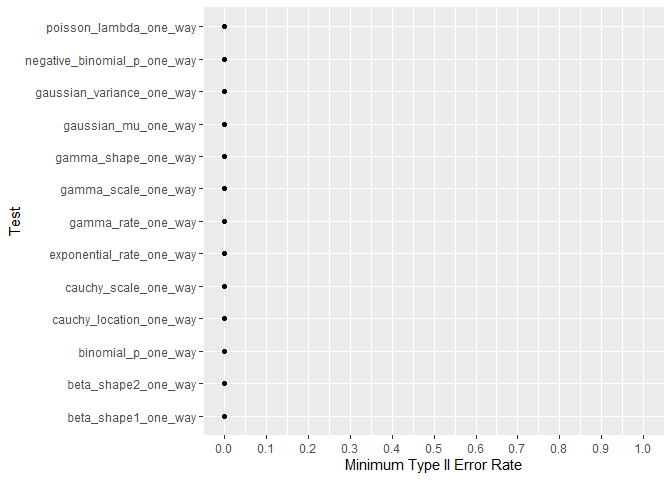
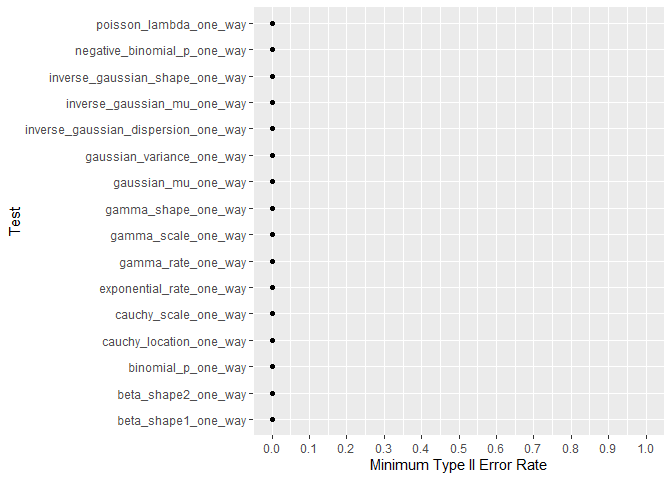
data intro

diff --git a/README.md b/README.md
@@ -1,24 +1,61 @@
 
 # Repo Overview
 
-This repo estimates asymptotic type I error rates, asymptotic type II
-error rates, and asymptotic coverage rates for confidence intervals for
-likelihood ratio tests in LRTesteR. Detailed analysis can be found in
-the type I and type II folders. Calculations based on 2,000 iterations
-and a sample size of 200.
+This repo is a simulation study. Each row is an experiment. It is
+simulated in that data are generated from random generators. The first
+five rows look like
+
+    #> # A tibble: 180,000 x 8
+    #>   test                      mu variance      stat pvalue alt       CI_LB CI_UB
+    #>   <chr>                  <dbl>    <dbl>     <dbl>  <dbl> <chr>     <dbl> <dbl>
+    #> 1 gaussian_mu_one_sample    -4        1 0.294      0.588 two.sided -4.09 -3.84
+    #> 2 gaussian_mu_one_sample    -4        1 0.0000959  0.992 two.sided -4.15 -3.85
+    #> 3 gaussian_mu_one_sample    -4        1 0.0468     0.829 two.sided -4.12 -3.85
+    #> 4 gaussian_mu_one_sample    -4        1 0.0224     0.881 two.sided -4.12 -3.86
+    #> 5 gaussian_mu_one_sample    -4        1 0.118      0.732 two.sided -4.11 -3.84
+    #> # ... with 179,995 more rows
+    #> # i Use `print(n = ...)` to see more rows
+
+For each simulated experiment, both the true hypothesis and the outcome
+of the test are known. Multiple experiments are aggregated to calculate
+type I error rates.
+
+    #> # A tibble: 30 x 4
+    #> # Groups:   test, mu [10]
+    #>   test                      mu variance Type_I_Error
+    #>   <chr>                  <dbl>    <dbl>        <dbl>
+    #> 1 gaussian_mu_one_sample    -4        1         0.05
+    #> 2 gaussian_mu_one_sample    -4        3         0.05
+    #> 3 gaussian_mu_one_sample    -4        5         0.05
+    #> 4 gaussian_mu_one_sample    -2        1         0.05
+    #> 5 gaussian_mu_one_sample    -2        3         0.05
+    #> # ... with 25 more rows
+    #> # i Use `print(n = ...)` to see more rows
+
+Each simulated experiment is based on a sample size of 200. Each
+combination of true hypothesis, parameter value, and test are repeated
+2,000 times.
+
+Detailed statistical analysis can be found in the type I and type II
+folders. Code to run the simulation is in the R Code folder.
 
 # One Sample Type I Error Rate
 
-Most tests have a type I error rate of .05. Likelihood ratio tests match
-exact tests.
+Most tests have a type I error rate of .05. Likelihood ratio tests have
+similar error rates to exact tests.
 
 <img src="man/figures/README-typeOneSummary-1.png" width="100%" />
 
 # One Way Type I Error Rate
 
-Most tests are within half a percentage point of 5%. The one way test
-for binomial p stands out as having as having a 6% type I error rate
-instead of 5%.
+Compared to the one sample tests, type I error rates have increased.
+
+For the one sample tests, all 200 data points are associated with one
+group. The one parameter is estimated using all 200 data points. For the
+one way tests, there are two groups and therefore two parameters that
+must be estimated. Each parameter is based on only 100 data points each.
+The cost of less data per parameter is a type I error further from the
+target 5%.
 
 <img src="man/figures/README-typeOneSummary2-1.png" width="100%" />
 
@@ -37,7 +74,8 @@ Similar to above, all tests can achieve near 0% type II error rate.
 
 # Confidence Interval Coverage
 
-Most functions have a coverage rate of 95%. The worst performing
-confidence intervals are within half a percentage point.
+In addition to error rates, confidence interval coverage rates are
+estimated. Most functions have a coverage rate of 95%. The worst
+performing confidence intervals are within one a percentage point.
 
 <img src="man/figures/README-CISummary-1.png" width="100%" />
